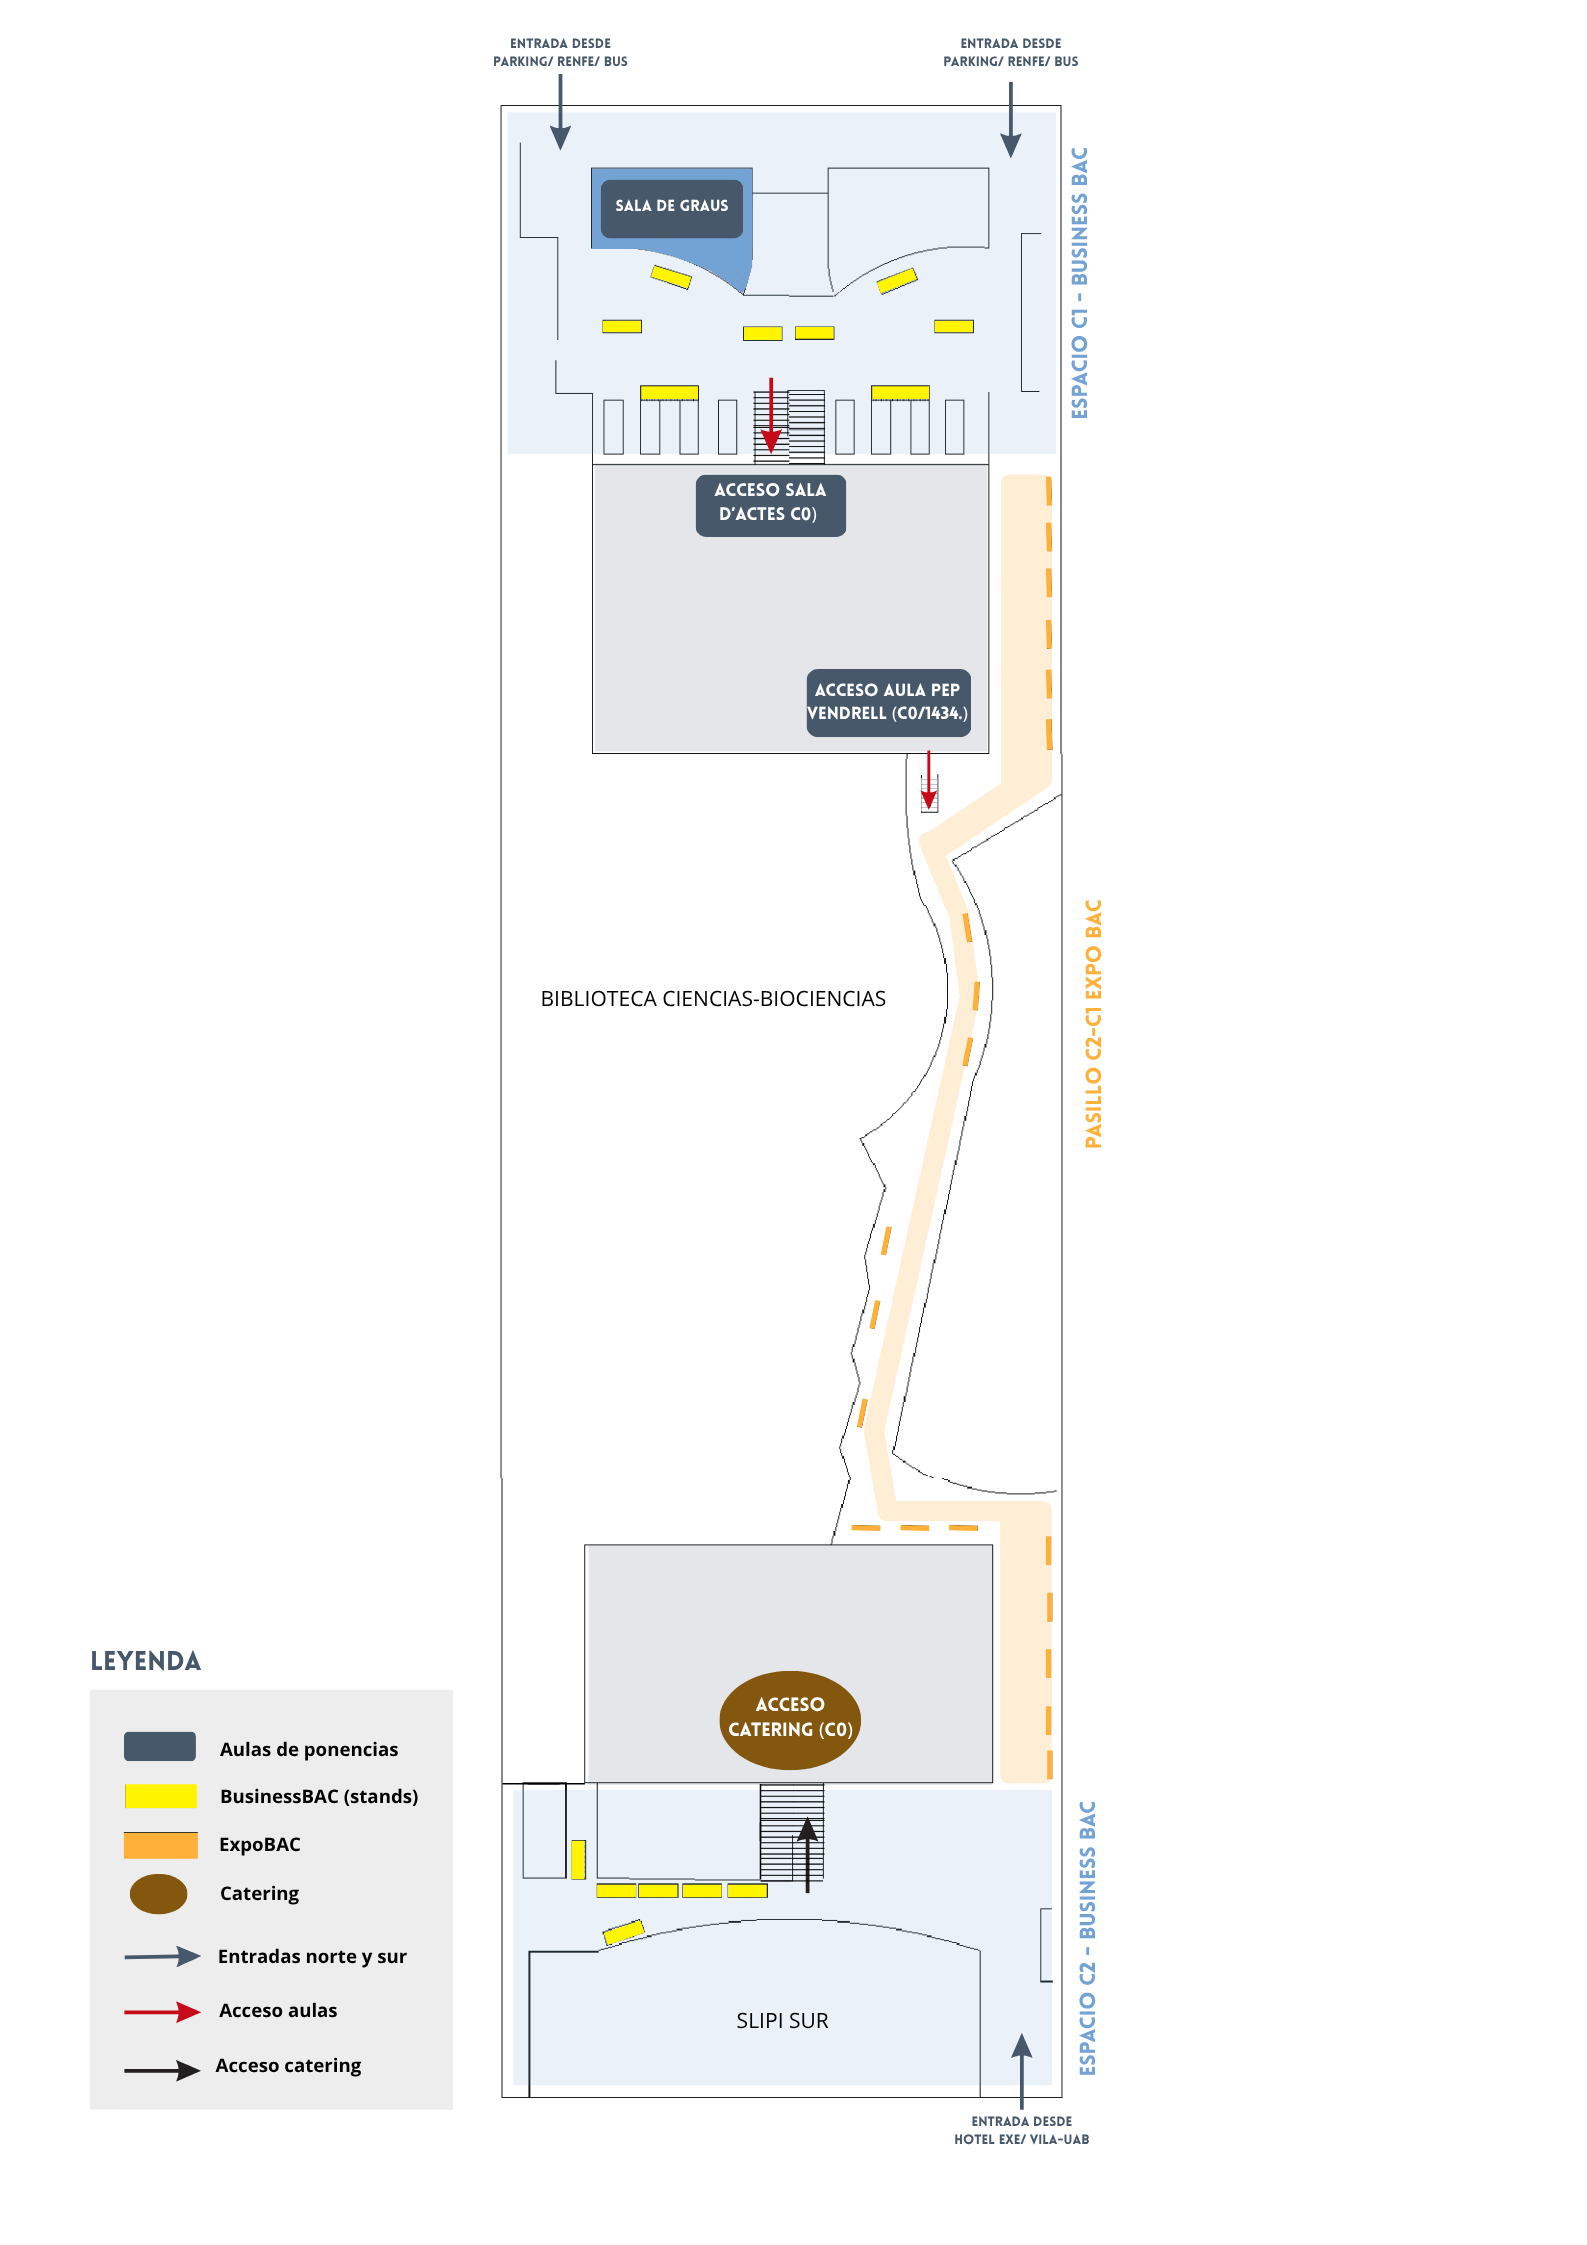
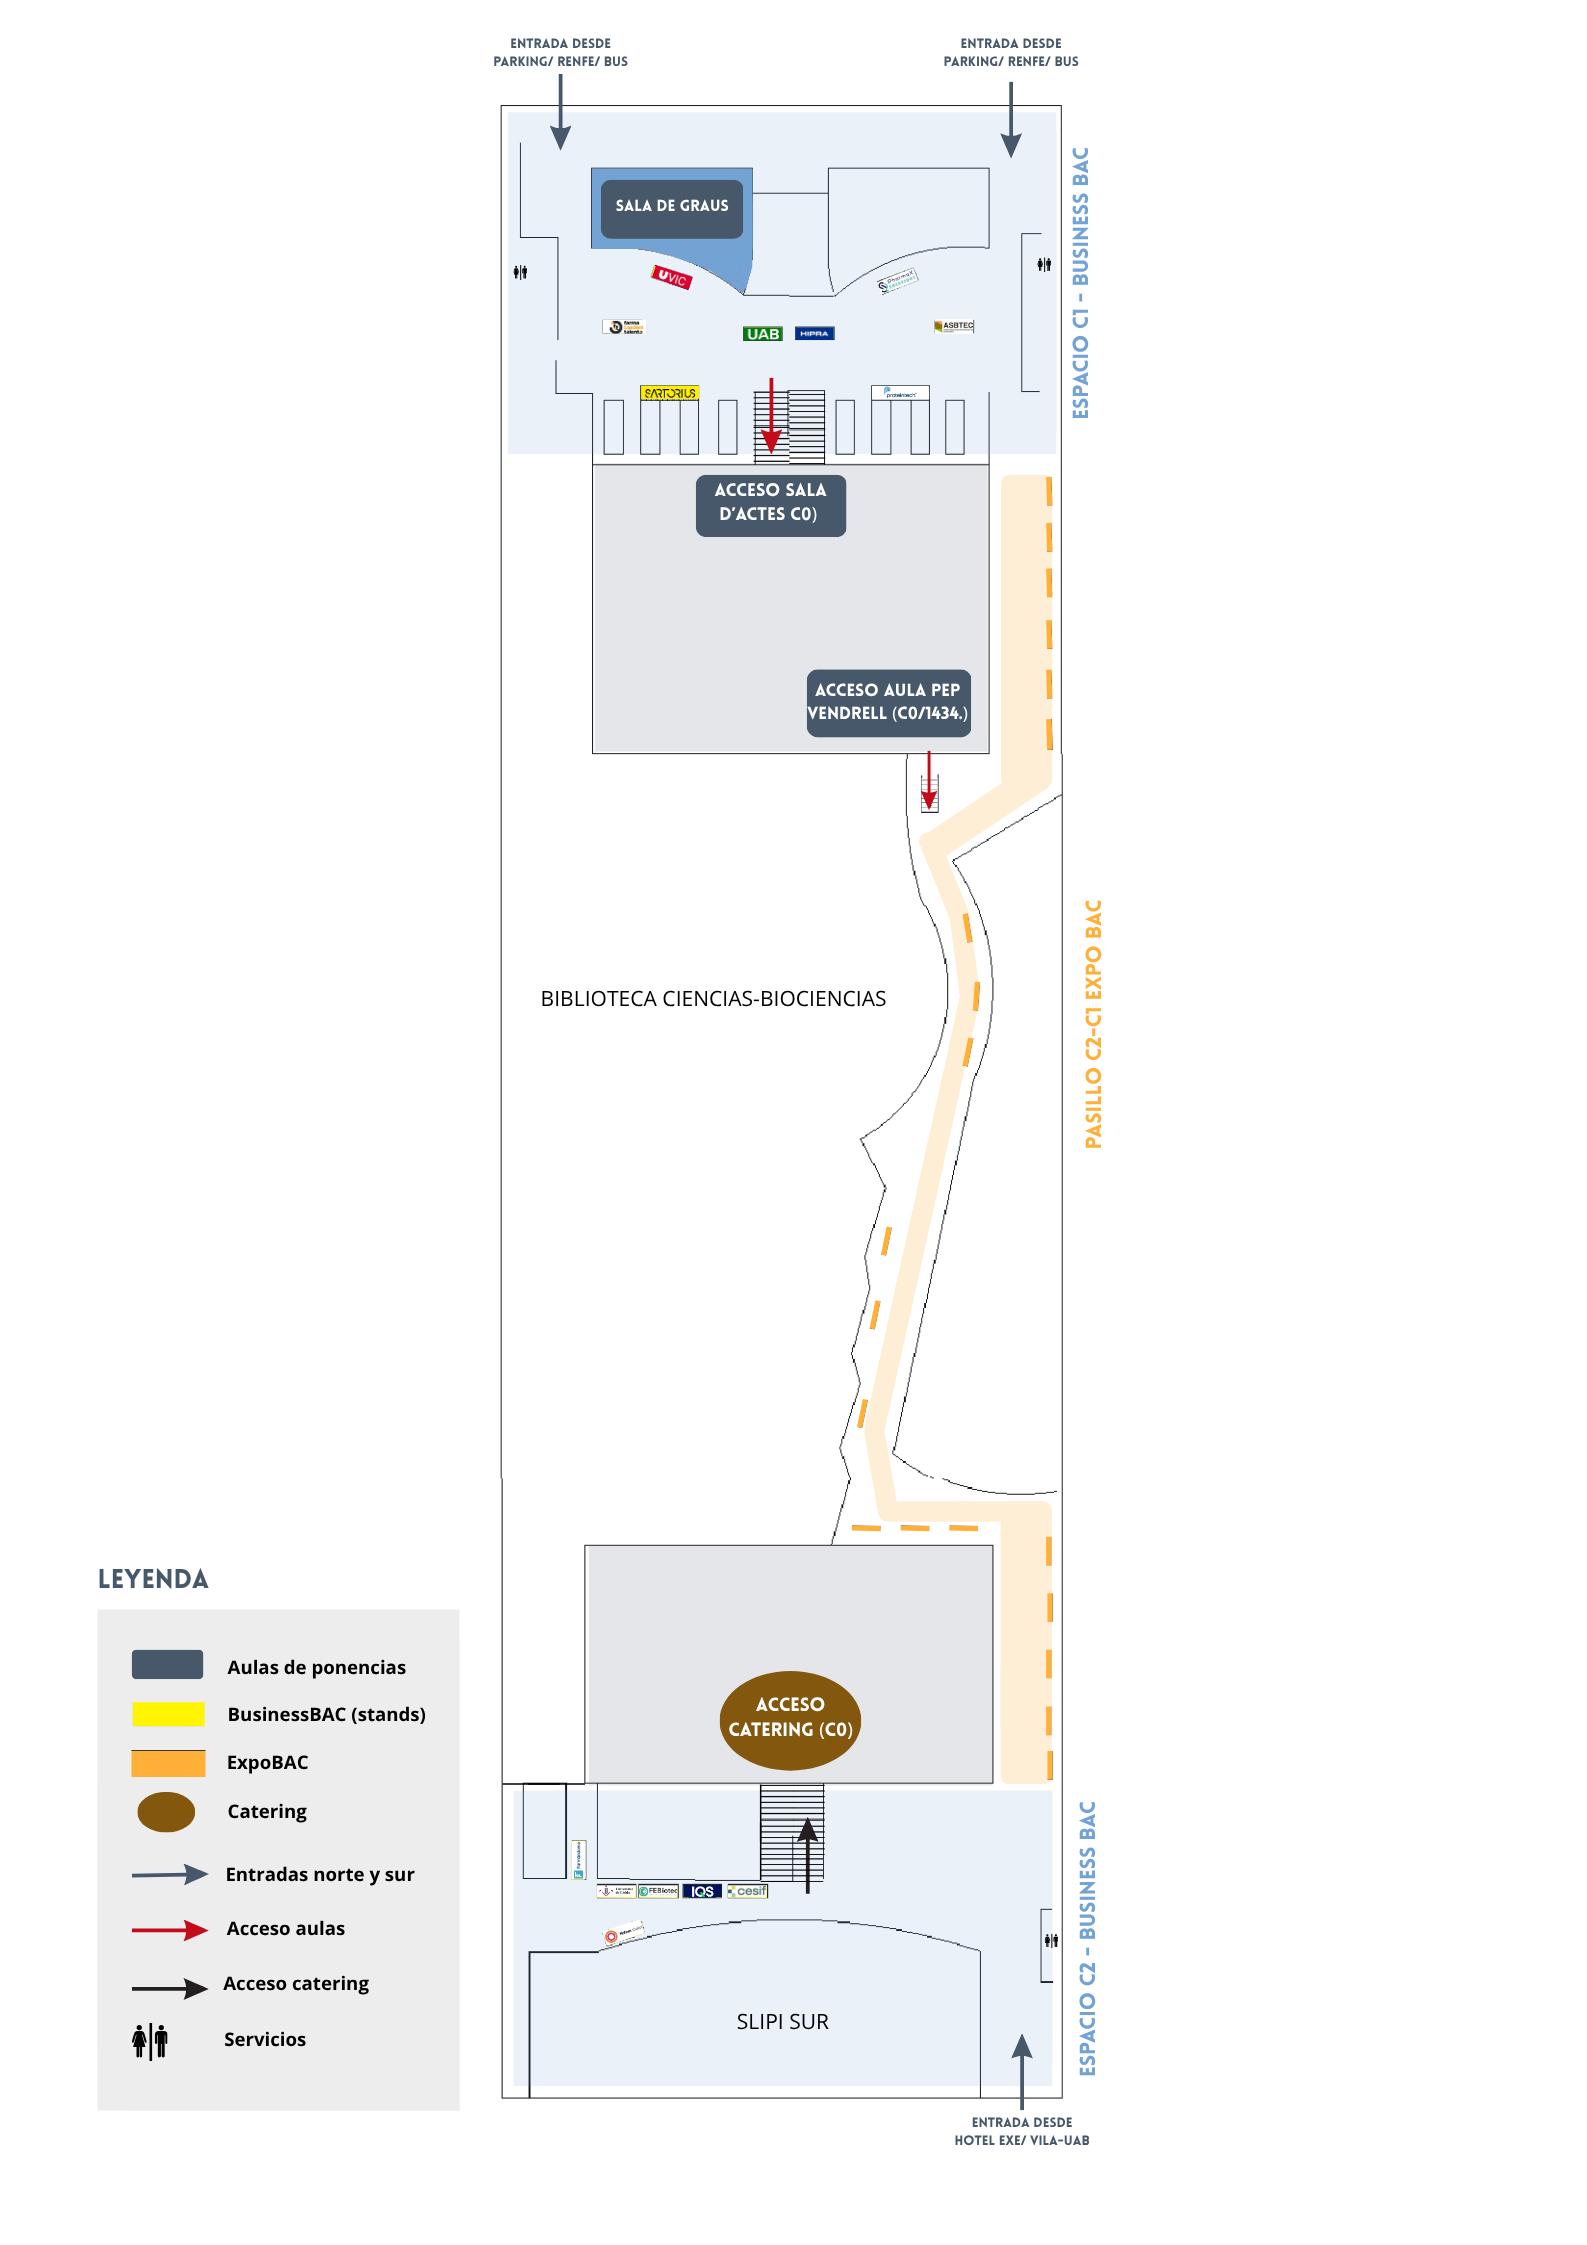
ADDED: full map, updated jsons, added photos

diff --git a/app/(tabs)/map.tsx b/app/(tabs)/map.tsx
@@ -57,24 +57,25 @@ const TYPE_FILTERS: { key: FilterType; label: string; iconName: string }[] = [
   { key: 'Visita',                  label: 'Visita',                  iconName: 'park' },
 ];
 
-// PNG crop dimensions (487,0)→(1115,2200) of the original map
-const MAP_W = 628;
-const MAP_H = 2200;
+// Full map image dimensions (Plano completo.png — 1587×2245)
+// Old mapa.png was a crop of this: (487,0)→(1115,2200); x coords below are x_crop + 487
+const MAP_W = 1587;
+const MAP_H = 2245;
 const MAP_VIEWPORT_H_FALLBACK = 300;
 
 const EXTERIOR_ID  = 'Exterior de la facultat de biociencies';
 const AUDITORI_ID  = 'Auditori de Lletres';
 const AUDITORI_COLOR = '#7C3AED';
 
-// Coordinates are in the cropped PNG space (original x − 487, y unchanged)
+// Coordinates in Plano completo.png space: x = x_crop + 487, y = y_crop × (2245/2200)
 const SPACES = [
-  { id: 'Sala de Graus',                 label: 'Sala de Graus',                 x: 98,  y: 160,  w: 154, h: 74,  type: 'classroom' },
-  { id: 'Espacio BusinessBAC (C1)',      label: 'Espacio BusinessBAC (C1)',       x: 99,  y: 251,  w: 390, h: 153, type: 'stand' },
-  { id: "Sala d'Actes (C0)",            label: "Sala d'Actes (C0)",             x: 208, y: 473,  w: 158, h: 65,  type: 'classroom' },
-  { id: 'Aula PEP Vendrell (C0/1434.)', label: 'Aula PEP Vendrell (C0/1434.)',  x: 313, y: 633,  w: 175, h: 111, type: 'classroom' },
-  { id: 'Pasillo ExpoBAC (C2-C1)',      label: 'Pasillo ExpoBAC',               x: 346, y: 755,  w: 232, h: 785, type: 'expo' },
-  { id: 'Catering (C0)',                label: 'Catering (C0)',                 x: 228, y: 1660, w: 154, h: 117, type: 'catering' },
-  { id: 'Espacio BusinessBAC (C2)',     label: 'Espacio BusinessBAC (C2)',      x: 83,  y: 1785, w: 194, h: 162, type: 'stand' },
+  { id: 'Sala de Graus',                 label: 'Sala de Graus',                 x: 585, y: 163,  w: 154, h: 75,  type: 'classroom' },
+  { id: 'Espacio BusinessBAC (C1)',      label: 'Espacio BusinessBAC (C1)',       x: 586, y: 256,  w: 390, h: 156, type: 'stand' },
+  { id: "Sala d'Actes (C0)",            label: "Sala d'Actes (C0)",             x: 695, y: 483,  w: 158, h: 66,  type: 'classroom' },
+  { id: 'Aula PEP Vendrell (C0/1434.)', label: 'Aula PEP Vendrell (C0/1434.)',  x: 800, y: 646,  w: 175, h: 113, type: 'classroom' },
+  { id: 'Pasillo ExpoBAC (C2-C1)',      label: 'Pasillo ExpoBAC',               x: 833, y: 770,  w: 232, h: 801, type: 'expo' },
+  { id: 'Catering (C0)',                label: 'Catering (C0)',                 x: 715, y: 1694, w: 154, h: 119, type: 'catering' },
+  { id: 'Espacio BusinessBAC (C2)',     label: 'Espacio BusinessBAC (C2)',      x: 570, y: 1822, w: 194, h: 165, type: 'stand' },
 ] as const;
 
 const ALL_SPACES = [
@@ -301,7 +302,7 @@ export default function MapScreen() {
           <GestureDetector gesture={mapGesture}>
             <Animated.View style={[{ width: imgW, height: imgH }, mapAnimStyle]}>
               <Image
-                source={require('@/assets/images/map/mapa.png')}
+                source={require('@/assets/images/map/Plano completo.png')}
                 style={{ width: imgW, height: imgH }}
                 resizeMode="stretch"
               />

diff --git a/constants/exhibitorPhotos.ts b/constants/exhibitorPhotos.ts
@@ -55,10 +55,10 @@ export const EXHIBITOR_PHOTOS: Record<string, ReturnType<typeof require>> = {
   'spk_042': require('@/assets/images/exhibitors/speakers/RocioVazquez.jpg'),
   'spk_043': require('@/assets/images/exhibitors/speakers/Moises_Exposito.jpeg'),
   'spk_044': require('@/assets/images/exhibitors/speakers/Cristina Romera Castillo.jpg'),
-  'spk_045': require('@/assets/images/exhibitors/speakers/Malu Calle.JPG'),
+  'spk_045': require('@/assets/images/exhibitors/speakers/Malu Calle.jpg'),
   'spk_046': require('@/assets/images/exhibitors/speakers/Jordi Arbusa.jpg'),
   'spk_047': require('@/assets/images/exhibitors/speakers/iqs-faijes-magda.webp'),
-  'spk_048': require('@/assets/images/exhibitors/speakers/Josep.jfif'),
+  'spk_048': require('@/assets/images/exhibitors/speakers/Josep.jpg'),
   'spk_178': require('@/assets/images/exhibitors/speakers/Gemma Marfany.png'),
   'spk_179': require('@/assets/images/exhibitors/speakers/Marco Mariotti.png'),
   'spk_180': require('@/assets/images/exhibitors/speakers/Aroa Casado.jpg'),